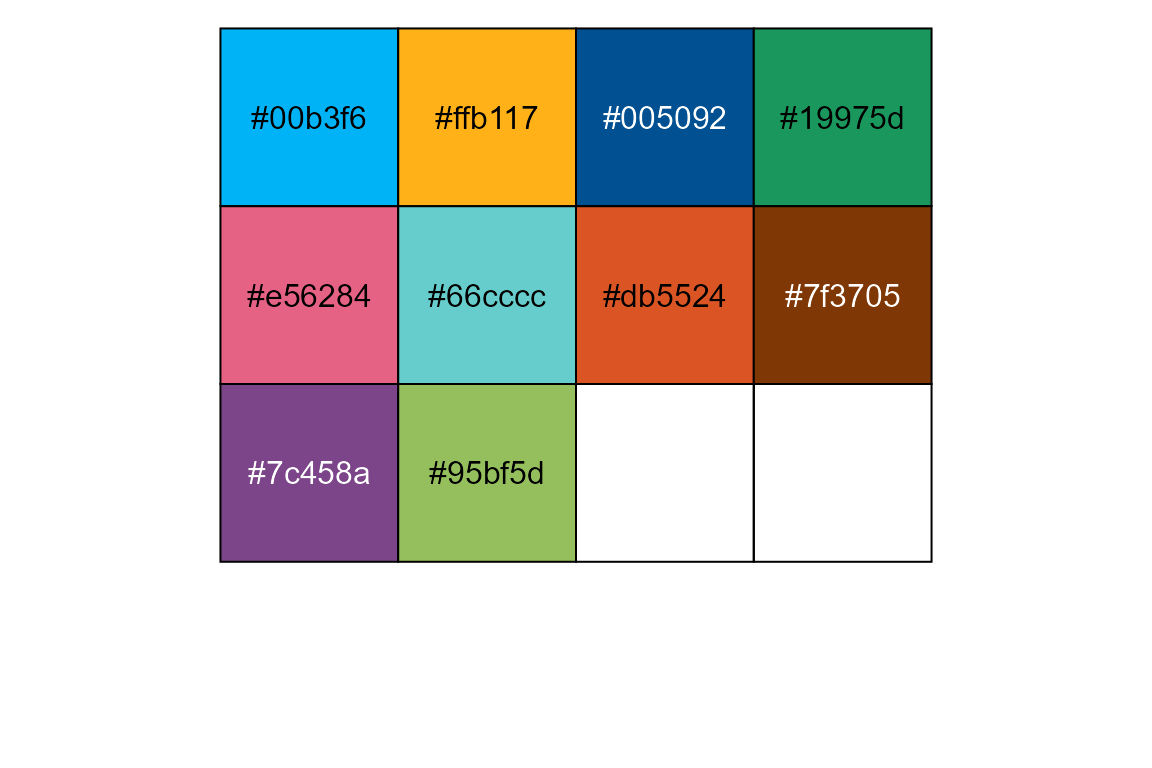
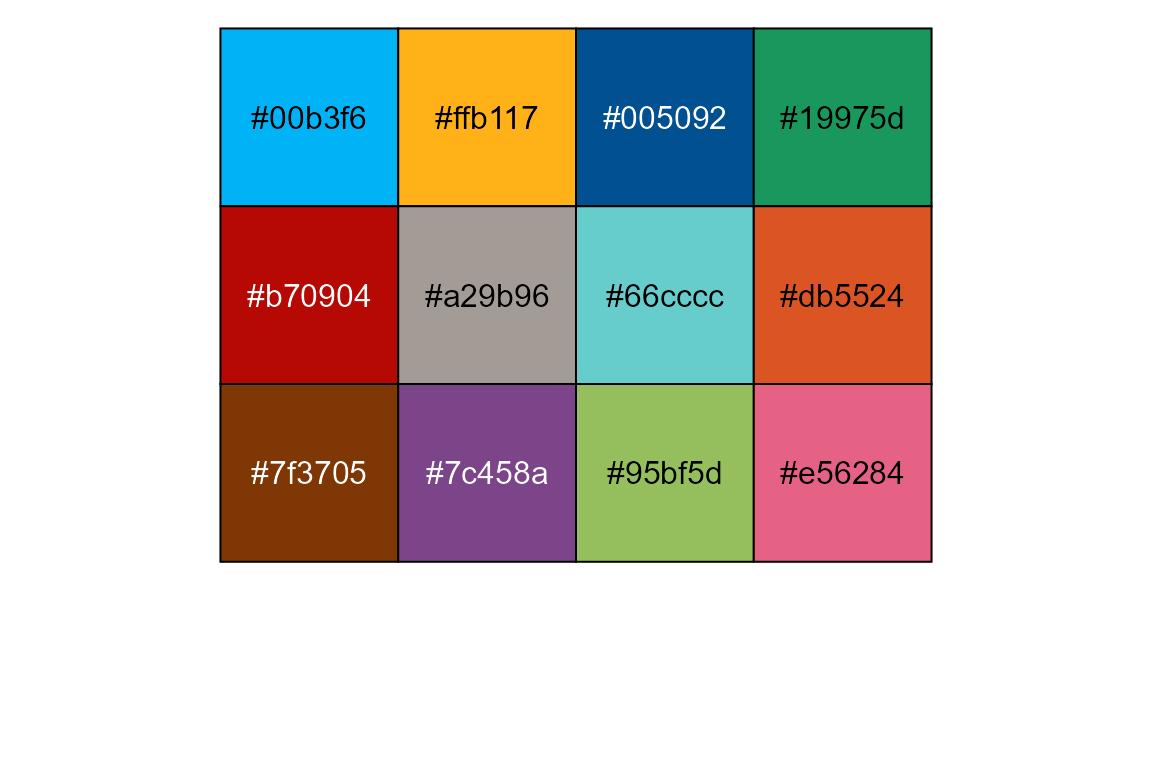
Skissa på modifierad palett utfrån utkast till grafisk manual för INCA-plattformen

Changed region(s): [[0.1875, 0.25, 0.8125, 0.75]]

diff --git a/docs/reference/rcc_pal.html b/docs/reference/rcc_pal.html
@@ -137,14 +137,11 @@ colours is reversed.</p></td>
     </tr>
     </table>
 
-    <h2 class="hasAnchor" id="references"><a class="anchor" href="#references"></a>References</h2>
-
-    <p><a href='https://bitbucket.org/cancercentrum/rccshiny/src/1.7.1/R/rcc2PlotLine.R#lines-120'>https://bitbucket.org/cancercentrum/rccshiny/src/1.7.1/R/rcc2PlotLine.R#lines-120</a></p>
 
     <h2 class="hasAnchor" id="examples"><a class="anchor" href="#examples"></a>Examples</h2>
     <pre class="examples"><div class='input'><span class='kw'><a href='https://rdrr.io/r/base/library.html'>library</a></span><span class='op'>(</span><span class='va'><a href='https://scales.r-lib.org'>scales</a></span><span class='op'>)</span>
 <span class='kw'><a href='https://rdrr.io/r/base/library.html'>library</a></span><span class='op'>(</span><span class='va'><a href='https://cancercentrum.bitbucket.io/rccthemes/'>rccthemes</a></span><span class='op'>)</span>
-<span class='fu'><a href='https://scales.r-lib.org//reference/show_col.html'>show_col</a></span><span class='op'>(</span><span class='fu'>rcc_pal</span><span class='op'>(</span><span class='op'>)</span><span class='op'>(</span><span class='fl'>10</span><span class='op'>)</span><span class='op'>)</span>
+<span class='fu'><a href='https://scales.r-lib.org//reference/show_col.html'>show_col</a></span><span class='op'>(</span><span class='fu'>rcc_pal</span><span class='op'>(</span><span class='op'>)</span><span class='op'>(</span><span class='fl'>12</span><span class='op'>)</span><span class='op'>)</span>
 </div><div class='img'><img src='rcc_pal-1.png' alt='' width='700' height='433' /></div></pre>
   </div>
   <div class="col-md-3 hidden-xs hidden-sm" id="pkgdown-sidebar">

diff --git a/docs/articles/scales-intro-sv.html b/docs/articles/scales-intro-sv.html
@@ -91,9 +91,10 @@
 <a href="#rcc-paletten" class="anchor"></a>RCC-paletten</h1>
 <p>Visa färgerna i paletten.</p>
 <div class="sourceCode" id="cb2"><pre class="downlit sourceCode r">
-<code class="sourceCode R"><span class="fu">scales</span><span class="fu">::</span><span class="fu"><a href="https://scales.r-lib.org//reference/show_col.html">show_col</a></span><span class="op">(</span><span class="fu"><a href="../reference/rcc_pal.html">rcc_pal</a></span><span class="op">(</span><span class="op">)</span><span class="op">(</span><span class="fl">10</span><span class="op">)</span><span class="op">)</span></code></pre></div>
+<code class="sourceCode R"><span class="fu">scales</span><span class="fu">::</span><span class="fu"><a href="https://scales.r-lib.org//reference/show_col.html">show_col</a></span><span class="op">(</span><span class="fu"><a href="../reference/rcc_pal.html">rcc_pal</a></span><span class="op">(</span><span class="op">)</span><span class="op">(</span><span class="fl">12</span><span class="op">)</span><span class="op">)</span></code></pre></div>
 <p><img src="scales-intro-sv_files/figure-html/unnamed-chunk-2-1.png" width="576" style="display: block; margin: auto;"></p>
-<p>Jfr <a href="https://bitbucket.org/cancercentrum/rccshiny/src/1.7.1/R/rcc2PlotLine.R#lines-120" class="uri">https://bitbucket.org/cancercentrum/rccshiny/src/1.7.1/R/rcc2PlotLine.R#lines-120</a></p>
+<!-- Jfr -->
+<!-- https://bitbucket.org/cancercentrum/rccshiny/src/1.7.1/R/rcc2PlotLine.R#lines-120 -->
 </div>
 <div id="rcc-grafiska-skalor" class="section level1">
 <h1 class="hasAnchor">

diff --git a/docs/reference/rccthemes-package.html b/docs/reference/rccthemes-package.html
@@ -40,10 +40,9 @@
 
 
 <meta property="og:title" content="rccthemes: RCC Themes, Scales and Geoms for 'ggplot2' — rccthemes-package" />
-<meta property="og:description" content="The longterm goal is to provide 'ggplot2'
-    themes, scales and geoms that adhere to the graphic rules at Regional
-    Cancer Centers (RCC) in Sweden.  Currently, RCC scales are
-    implemented." />
+<meta property="og:description" content="The longterm goal is to provide 'ggplot2' themes, scales and geoms
+    that adhere to the graphic rules at Regional Cancer Centers (RCC) in Sweden.
+    Currently, RCC scales are implemented." />
 
 
 
@@ -124,10 +123,9 @@
     </div>
 
     <div class="ref-description">
-    <p>The longterm goal is to provide 'ggplot2'
-    themes, scales and geoms that adhere to the graphic rules at Regional
-    Cancer Centers (RCC) in Sweden.  Currently, RCC scales are
-    implemented.</p>
+    <p>The longterm goal is to provide 'ggplot2' themes, scales and geoms
+    that adhere to the graphic rules at Regional Cancer Centers (RCC) in Sweden.
+    Currently, RCC scales are implemented.</p>
     </div>
 
 

diff --git a/docs/reference/scale_rcc.html b/docs/reference/scale_rcc.html
@@ -160,9 +160,6 @@ colours is reversed.</p></td>
     </tr>
     </table>
 
-    <h2 class="hasAnchor" id="references"><a class="anchor" href="#references"></a>References</h2>
-
-    <p><a href='https://bitbucket.org/cancercentrum/rccshiny/src/1.7.1/R/rcc2PlotLine.R#lines-120'>https://bitbucket.org/cancercentrum/rccshiny/src/1.7.1/R/rcc2PlotLine.R#lines-120</a></p>
 
     <h2 class="hasAnchor" id="examples"><a class="anchor" href="#examples"></a>Examples</h2>
     <pre class="examples"><div class='input'><span class='kw'><a href='https://rdrr.io/r/base/library.html'>library</a></span><span class='op'>(</span><span class='va'><a href='https://ggplot2.tidyverse.org'>ggplot2</a></span><span class='op'>)</span>
